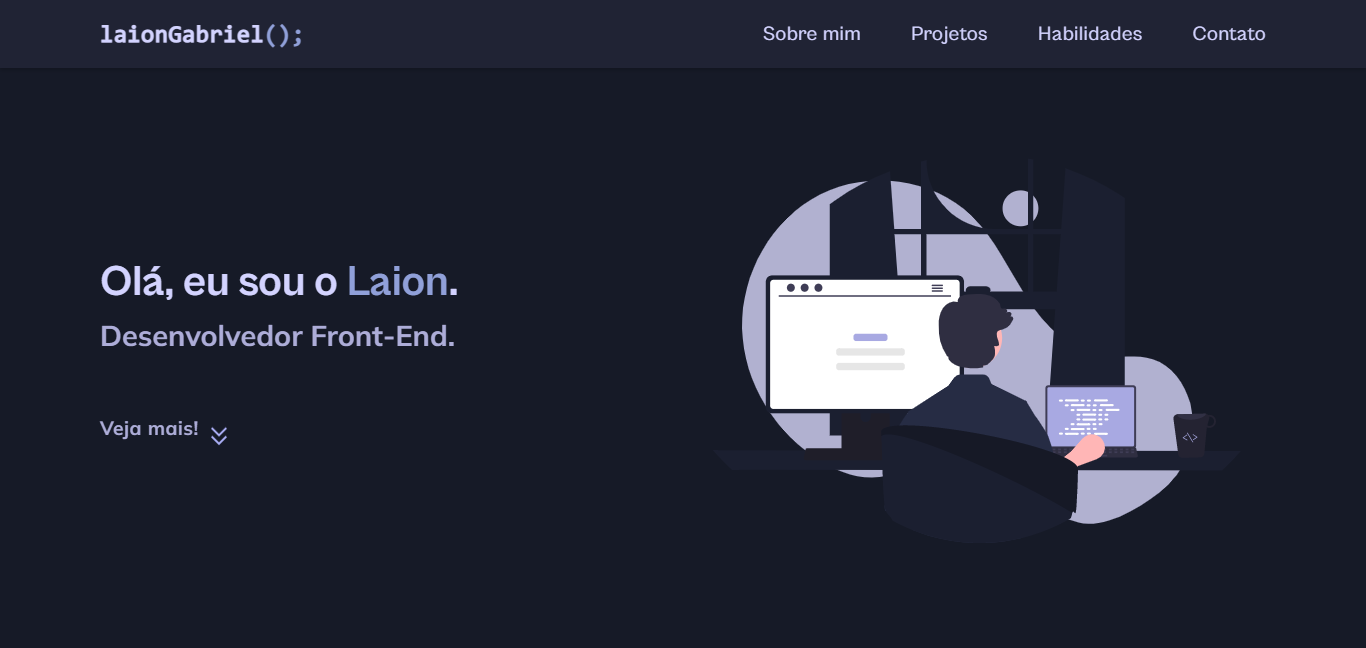
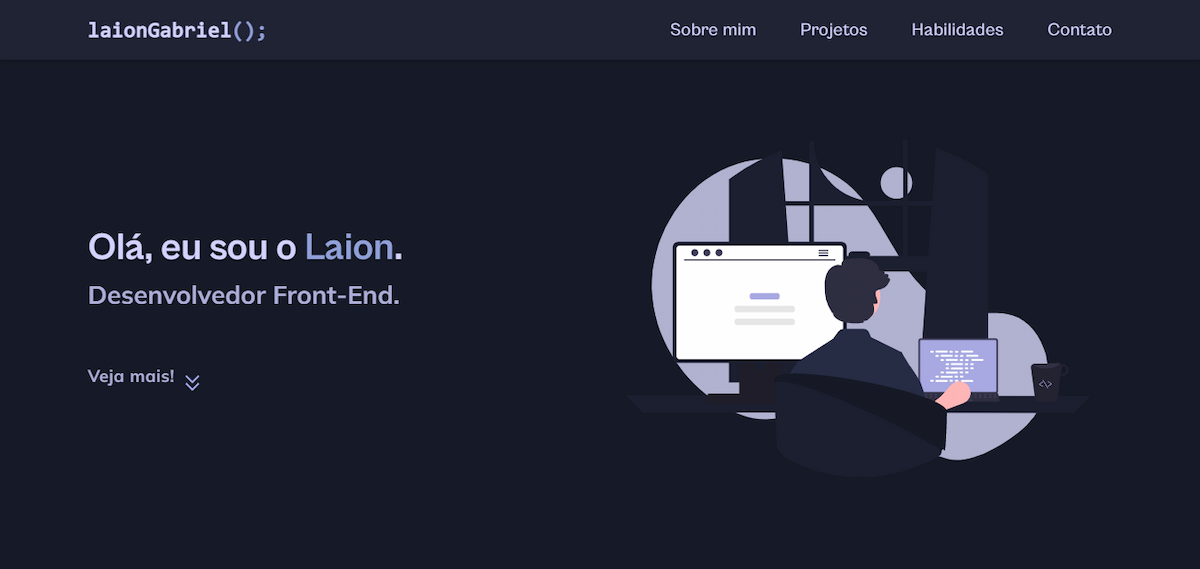
og:image update

diff --git a/index.html b/index.html
@@ -9,7 +9,7 @@
    <title>Portfólio - Laion Gabriel</title>
    <meta name="author" content="Laion Gabriel">
    <meta name="copyright" content="© 2022 Laion Gabriel">
-   <meta property="og:image" content="https://laiongabriel.github.io/portfolio/img/preview.png">
+   <meta property="og:image" content="https://laiongabriel.github.io/portfolio/img/og-preview.png">
    <meta http-equiv="content-language" content="pt-br">
    <meta http-equiv="content-type" content="text/html; charset=UTF-8">
 
